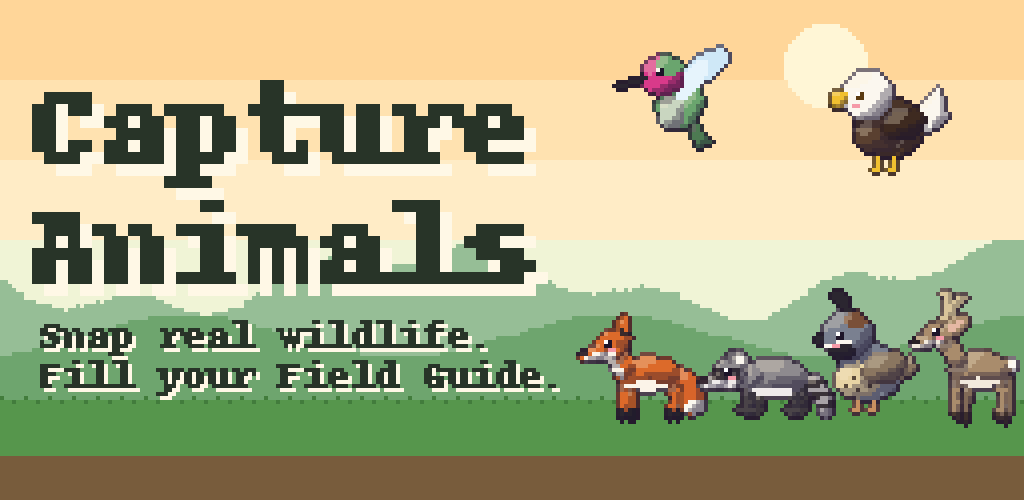
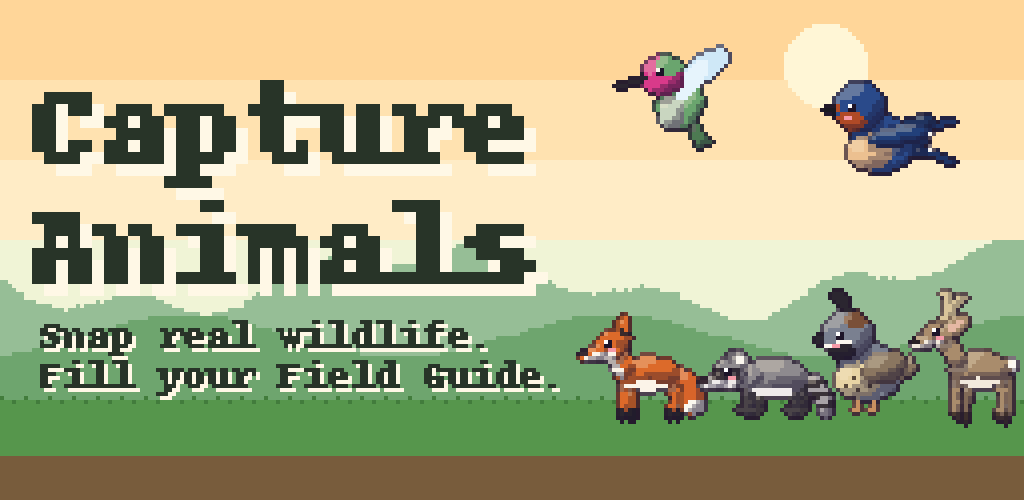
Feature graphic: a barn swallow in flight instead of the perched eagle
Claude-Session: https://claude.ai/code/session_01B3fgnfkxDnQWh67GgQcwZi

Changed region(s): [[0.7812, 0.12, 0.9375, 0.36]]

diff --git a/tools/make_store_graphics.py b/tools/make_store_graphics.py
@@ -4,6 +4,7 @@ Run from the repo root: python tools/make_store_graphics.py
 Everything is drawn on a 256x125 canvas and scaled up 4x with nearest-neighbour, so it
 keeps the crisp pixel look of the game. Writes docs/store/feature-graphic.png.
 """
+import json
 from pathlib import Path
 
 from PIL import Image, ImageDraw, ImageFont
@@ -21,11 +22,20 @@ INK, CREAM, SHADOW = (40, 52, 40), (255, 248, 230), (196, 120, 60)
 
 # (sprite, x, bottom y): animals standing on the grass, a flier or two in the sky.
 CAST = [("red_fox", 160, GROUND + 6), ("raccoon", 191, GROUND + 5), ("california_quail", 216, GROUND + 4),
-        ("mule_deer", 241, GROUND + 7), ("bald_eagle", 222, 44), ("annas_hummingbird", 168, 38)]
+        ("mule_deer", 241, GROUND + 7), ("barn_swallow:fly", 222, 44), ("annas_hummingbird", 168, 38)]
 
 
 def sprite(name):
-    im = Image.open(SPRITES / f"{name}.png").convert("RGBA")
+    """A sprite by slug; "slug:fly" takes the first flying frame from its animation sheet
+    (species/sprites/anim: 40x40 frames, one row per action in index.json's "rows")."""
+    slug, _, act = name.partition(":")
+    if act:
+        rows = json.loads((SPRITES / "anim" / "index.json").read_text())["rows"]
+        sheet = Image.open(SPRITES / "anim" / f"{slug}.png").convert("RGBA")
+        r = rows.index(act)
+        im = sheet.crop((0, r * 40, 40, r * 40 + 40))
+    else:
+        im = Image.open(SPRITES / f"{slug}.png").convert("RGBA")
     return im.crop(im.getbbox())
 
 
